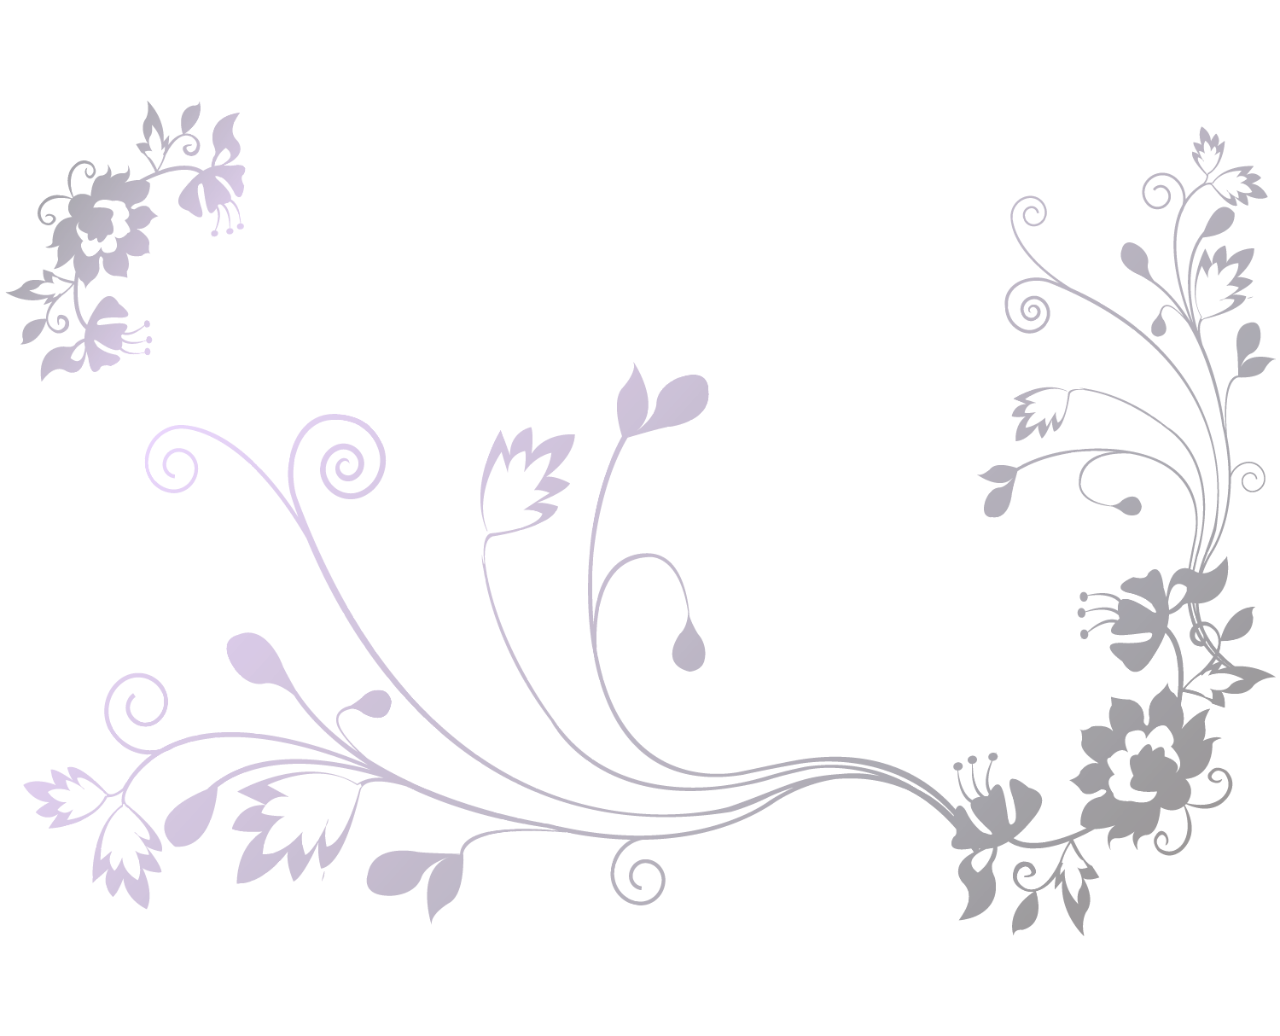
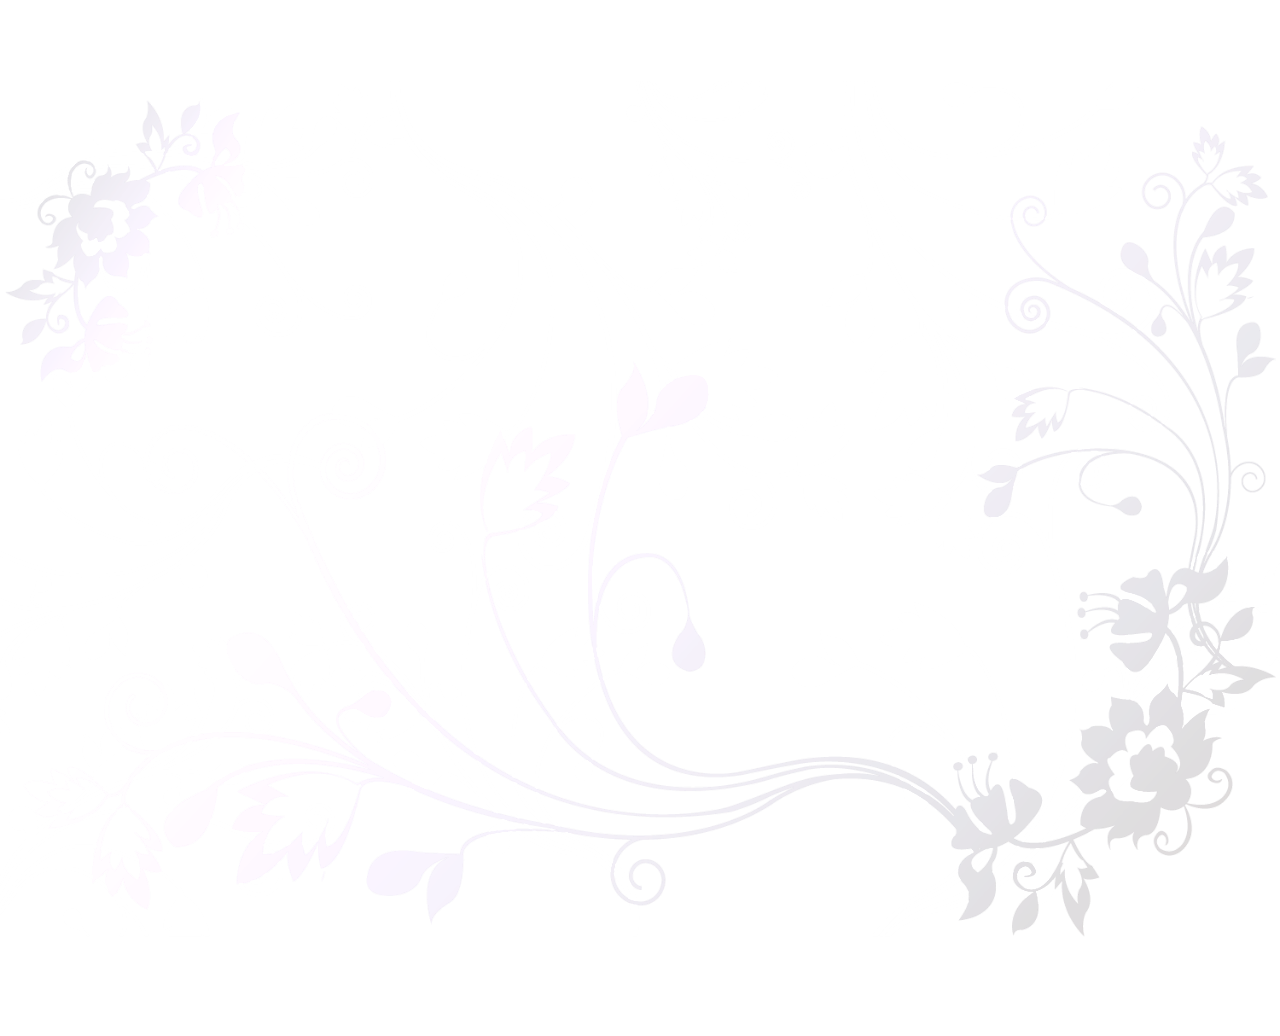
Master: stop hero image anim

diff --git a/SRC/CSS/mainStyle.css b/SRC/CSS/mainStyle.css
@@ -20,11 +20,11 @@
         background-position: 50% 75%;
         background-repeat: no-repeat;
         background-size: cover;
-        -webkit-animation-name: MOVE-BG;
+        /* -webkit-animation-name: MOVE-BG;
         -webkit-animation-duration: 10s;
         -webkit-animation-timing-function: linear;
         -webkit-animation-iteration-count: infinite;
-        animation-fill-mode: forwards;
+        animation-fill-mode: forwards; */
     }
     
     #hero-image-1 {
@@ -90,7 +90,7 @@
         -webkit-animation-duration: 5s;
         -webkit-animation-timing-function: linear;
         -webkit-animation-iteration-count: infinite;
-        animation-fill-mode: forwards;
+        /* animation-fill-mode: forwards; */
     }
     
     #who-we-are-bg {
